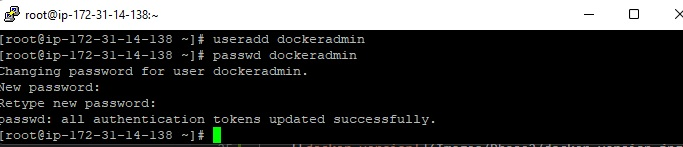
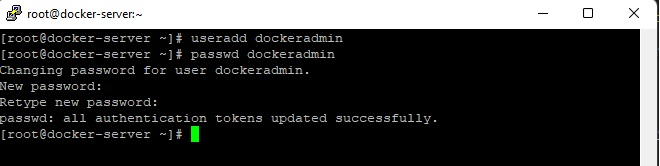
change the DevOps-Project-Phase-2.md file

diff --git a/DevOps-Project-Phase-2.md b/DevOps-Project-Phase-2.md
@@ -6,15 +6,21 @@
    
    With internet access
 
-   Security Group with Port '8090' open for internet
+   Security Group with Port '8080' open for internet
    ![Security-group!](Images/Phase2/docker-server-security-group.jpg)
 
-2. connect to the Docker server(Amazon Linux ec2 machine) via putty
+2. Connect to the Docker server(Amazon Linux ec2 machine) via putty
 
     ![connect-to-docker-server!](Images/Phase2/connect-to-docker-server.jpg)
 
-3. Install docker on EC2 instance
+3. Chnage hostname of the ec2 machine to docker-server
     - sudo su -
+    - hostname docker-server
+    - sudo su -
+
+    ![change-hostname!](Images/Phase2/change-hostname.jpg)
+    
+4. Install docker on EC2 instance
     - yum install docker -y
 
     ![install-docker!](Images/Phase2/install-docker.jpg)
@@ -23,44 +29,127 @@
 
     ![docker-version!](Images/Phase2/docker-version.jpg)
 
-4. Start docker services
+5. Start docker services
     - service docker start
     - service docker status
 
     ![service-docker-start!](Images/Phase2/service-docker-start.jpg)
 
-5. Create a user called dockeradmin
+6. Create a user called dockeradmin
     - useradd dockeradmin
     - passwd dockeradmin
 
     ![create-a-user!](Images/Phase2/create-a-user.jpg)
 
-6. Add a user to docker group to manage docker
+7. Add a user to docker group to manage docker
     - usermod -aG docker dockeradmin
 
     ![add-user-to-docker-group!](Images/Phase2/add-user-to-docker-group.jpg)
 
-7. Write the Dockerfile file under /opt/docker
-    - cd /opt
-    - mkdir docker
+8. Write the Dockerfile file under /home/dockeradmin
+    - cd /home
+    - ls
+    - cd dockeradmin
 
-    ![create-docker-dir!](Images/Phase2/create-docker-dir.jpg)
 
-8. Create a Dockerfile file
+    ![cd-home-dockeradmin!](Images/Phase2/cd-home-dockeradmin.jpg)
 
+9. Create a Dockerfile file
+    - sudo nano Dockerfile
     ```
-        FROM amazonlinux:2
-        RUN yum install java -y
-        RUN mkdir /opt/tomcat/
-        WORKDIR /opt/tomcat
-        ADD https://dlcdn.apache.org/tomcat/tomcat-10/v10.0.14/bin/apache-tomcat-10.0.14.tar.gz /opt/tomcat
-        RUN tar xvfz apache*.tar.gz
-        RUN mv apache-tomcat-10.0.14/* /opt/tomcat
+        # Pull tomcat image
+        FROM tomcat:8.0
 
-        COPY ./webapp.war /usr/local/tomcat/webapps
-
+        # Copy webapp.war to tomcat
+        COPY ./webapp.war /usr/local//tomcat/webapps
+        
     ```
     ![create-dockerfile!](Images/Phase2/create-dockerfile.jpg)
 
-9. Login to Jenkins Console and add Docker server to execute commands from Jenkins
+10. Login to Jenkins Console and add Docker server to execute commands from Jenkins
     - Manage Jenkins --> Configure system --> Publish over SSH --> add Docker server and credentials
+    - Set for Name: docker-server
+    - Set for Hostname: Private IP of the docker-server
+    - Set for Username: dockeradmin
+    - Set for Password: *******
+
+    ![add-credentials!](Images/Phase2/add-credentials.jpg)
+
+11. Edit the sshd_config file
+    - sudo su -
+    - nano /etc/ssh/sshd_config
+    - set PasswordAuthentication yes
+
+    ![modify-sshd_config-file!](Images/Phase2/modify-sshd_config-file.jpg)
+
+    - Run command: service sshd restart
+    
+    or 
+
+    - Run command: service sshd reload
+
+    ![service-sshd-restart!](Images/Phase2/service-sshd-restart.jpg)
+
+12. Create a new job: deploy-on-docker
+    ### Part: Source code Management
+    - Repository URL: https://github.com/mchicha/DevOps-Final-Project.git
+    - Branch Specifier (blank for 'any'): */phase-2-deploy-on-docker
+
+    ![source-code-management!](Images/Phase2/source-code-management.jpg)
+
+    ### Part: Build
+    - Root POM: pom.xml
+    - Goals and options: clean install package
+
+    ![part-build!](Images/Phase2/part-build.jpg)
+
+    ### Post build step
+    - Click on Add post build step
+    - Select: Send files or execute commands over SSH
+    - Set for Name: docker-server
+    - Set for Source files: webapp/target/*.war
+    - Set for Remove prefix: webapp/target
+    - Set for Remote directory: .
+    - Exec command: 
+```
+        docker stop tomcat-server-ctr;
+        docker rm -f tomcat-server-ctr;
+        docker rmi -f tomcat-server-v8;
+        docker build -t tomcat-server-v8 -f Dockerfile . ;
+        docker run -d --name tomcat-server-ctr -p 8080:8080 tomcat-server-v8
+
+```
+    ![send-files-over-ssh!](Images/Phase2/send-files-over-ssh.jpg)
+
+13. Check on the docker-server
+    - cd /home/dockeradmin
+    - docker images
+    - docker ps
+
+    ![docker-images!](Images/Phase2/docker-images.jpg)
+
+14. Build the job: Deploy-on-docker
+    - Error when build job: ERROR: Exception when publishing, exception message [Permission denied]
+
+    ![error-when-build-job!](Images/Phase2/error-when-build-job.jpg)
+
+15. Solution: chown -R dockeradmin:dockeradmin /home/dockeradmin
+
+    ![chown-dockeradmin!](Images/Phase2/chown-dockeradmin.jpg)
+
+16. Build again the job: Deploy-on-docker
+    ### Console output
+
+    ![console-output!](Images/Phase2/console-output.jpg)
+
+17. Browser on the docker-server
+    ![aws-ec2-dashboard!](Images/Phase2/aws-ec2-dashboard.jpg)
+
+    - Public IP: 13.57.41.156
+    - Port: 8080
+
+    ![browser-on-docker-server-port-8080!](Images/Phase2/browser-on-docker-server-port-8080.jpg)
+
+    - browse webapp: 13.57.41.156:8080/webapp
+
+    ![browser-on-docker-server-webapp!](Images/Phase2/browser-on-docker-server-webapp.jpg)

diff --git a/DevOps-Project-Phase-1.md b/DevOps-Project-Phase-1.md
@@ -203,7 +203,7 @@ yum install git -y
 9. Download packages(find the packages to download by searching on google tomcat - download packages)
 
     Copy link address:
-    wget <https://dlcdn.apache.org/tomcat/tomcat-10/v10.0.14/bin/apache-tomcat-10.0.14.tar.gz>
+    wget https://dlcdn.apache.org/tomcat/tomcat-10/v10.0.16/bin/apache-tomcat-10.0.16.tar.gz
 
     ![download-tomcat-packages!](Images/Phase1/download-tomcat-packages.jpg)
 
@@ -231,9 +231,9 @@ yum install git -y
 
 15. Create link files for tomcat startup.sh and shutdown.sh
 
-    ln -s /opt/apache-tomcat-10.0.14/bin/startup.sh /usr/local/bin/tomcatup
+    ln -s /opt/apache-tomcat-10.0.16/bin/startup.sh /usr/local/bin/tomcatup
 
-    ln -s /opt/apache-tomcat-10.0.14/bin/shutdown.sh /usr/local/bin/tomcatdown
+    ln -s /opt/apache-tomcat-10.0.16/bin/shutdown.sh /usr/local/bin/tomcatdown
   
 16. Run tomcatup
 
@@ -372,19 +372,19 @@ to the tomcat server
     
     webapp/target/webapp.war
     
-    and IP is the IP of the tomcat server
+    and IP is the Public IP of the tomcat server
     
     and <dest_path> is:
     
-    /opt/apache-tomcat-10.0.14/webapps
+    /opt/apache-tomcat-10.0.16/webapps
 
     ![dest-path!](Images/Phase1/dest-path.jpg)
 
-    scp webapp/target/webapp.war ec2-user@54.215.70.238:/opt/apache-tomcat-10.0.14/webapps
+    scp webapp/target/webapp.war ec2-user@54.215.70.238:/opt/apache-tomcat-10.0.16/webapps
 
 12. Finally add the next command to the pipeline script:
 
-    sh "scp webapp/target/webapp.war ec2-user@54.215.70.238:/opt/apache-tomcat-10.0.14/webapps"
+    sh "scp webapp/target/webapp.war ec2-user@54.215.70.238:/opt/apache-tomcat-10.0.16/webapps"
 
     sh for shell command
 
@@ -392,7 +392,7 @@ to the tomcat server
 
     ![add-attribute-to-scp-command!](Images/Phase1/add-attribute-to-scp-command.jpg)
 
-    sh "scp -o StrictHostKeyChecking=no webapp/target/webapp.war ec2-user@54.215.70.238:/opt/apache-tomcat-10.0.14/webapps"
+    sh "scp -o StrictHostKeyChecking=no webapp/target/webapp.war ec2-user@54.215.70.238:/opt/apache-tomcat-10.0.16/webapps"
 
 14. Change the owner and group permissions of the /opt directory and sub-directories of the tomcat server to ec2-user
 
